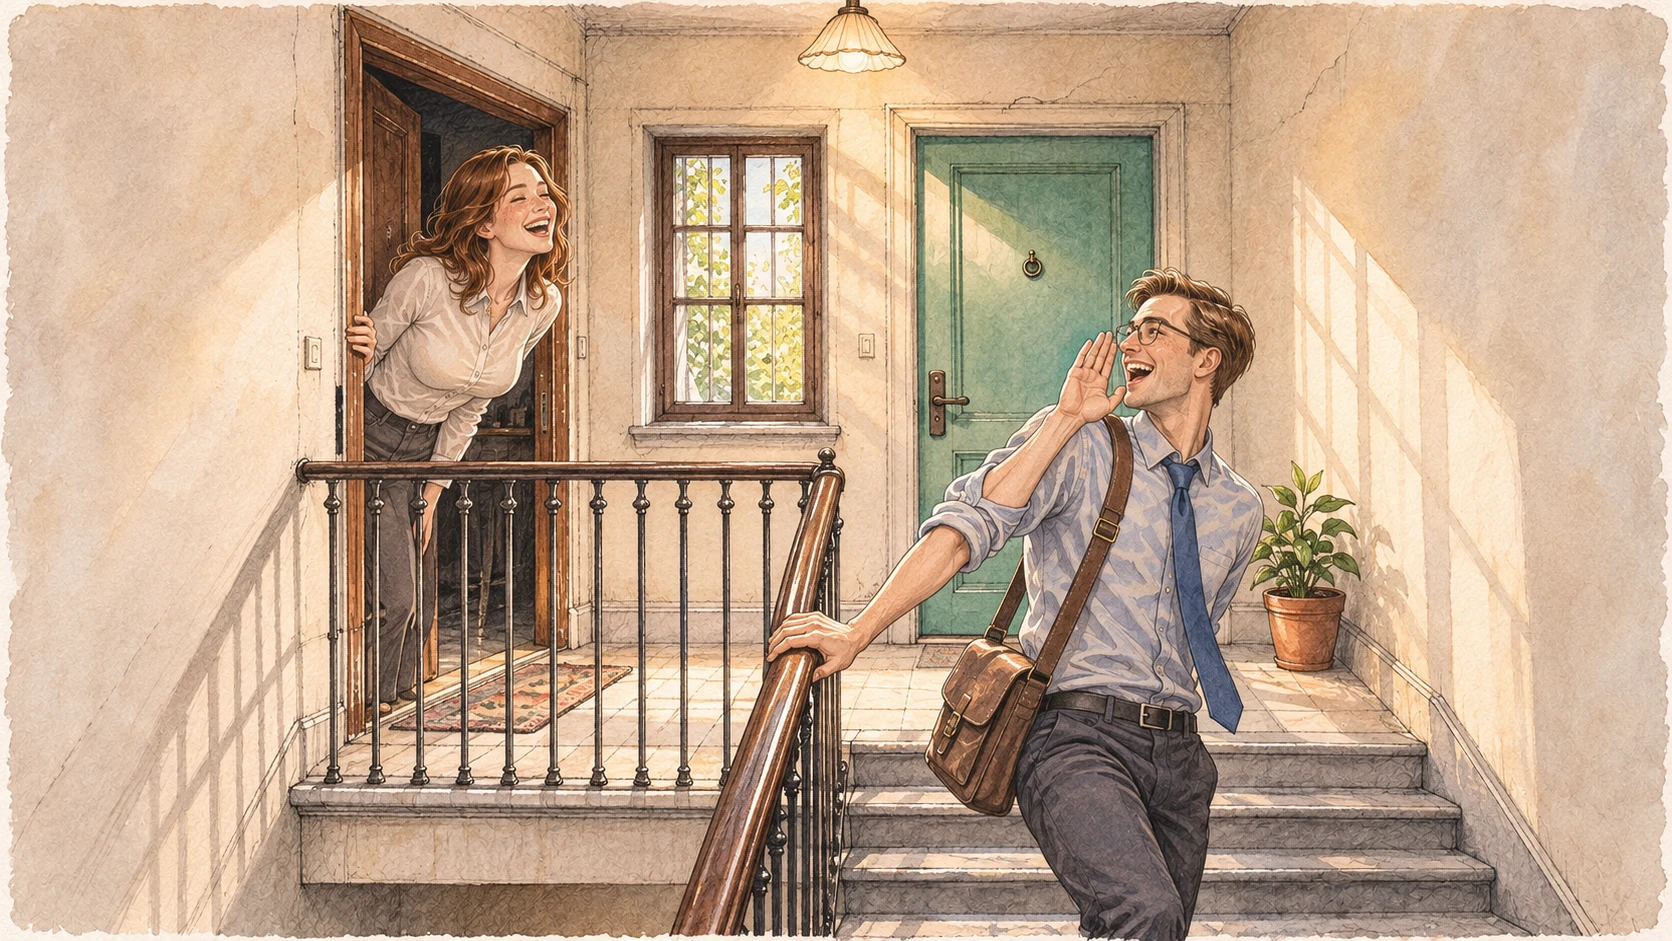
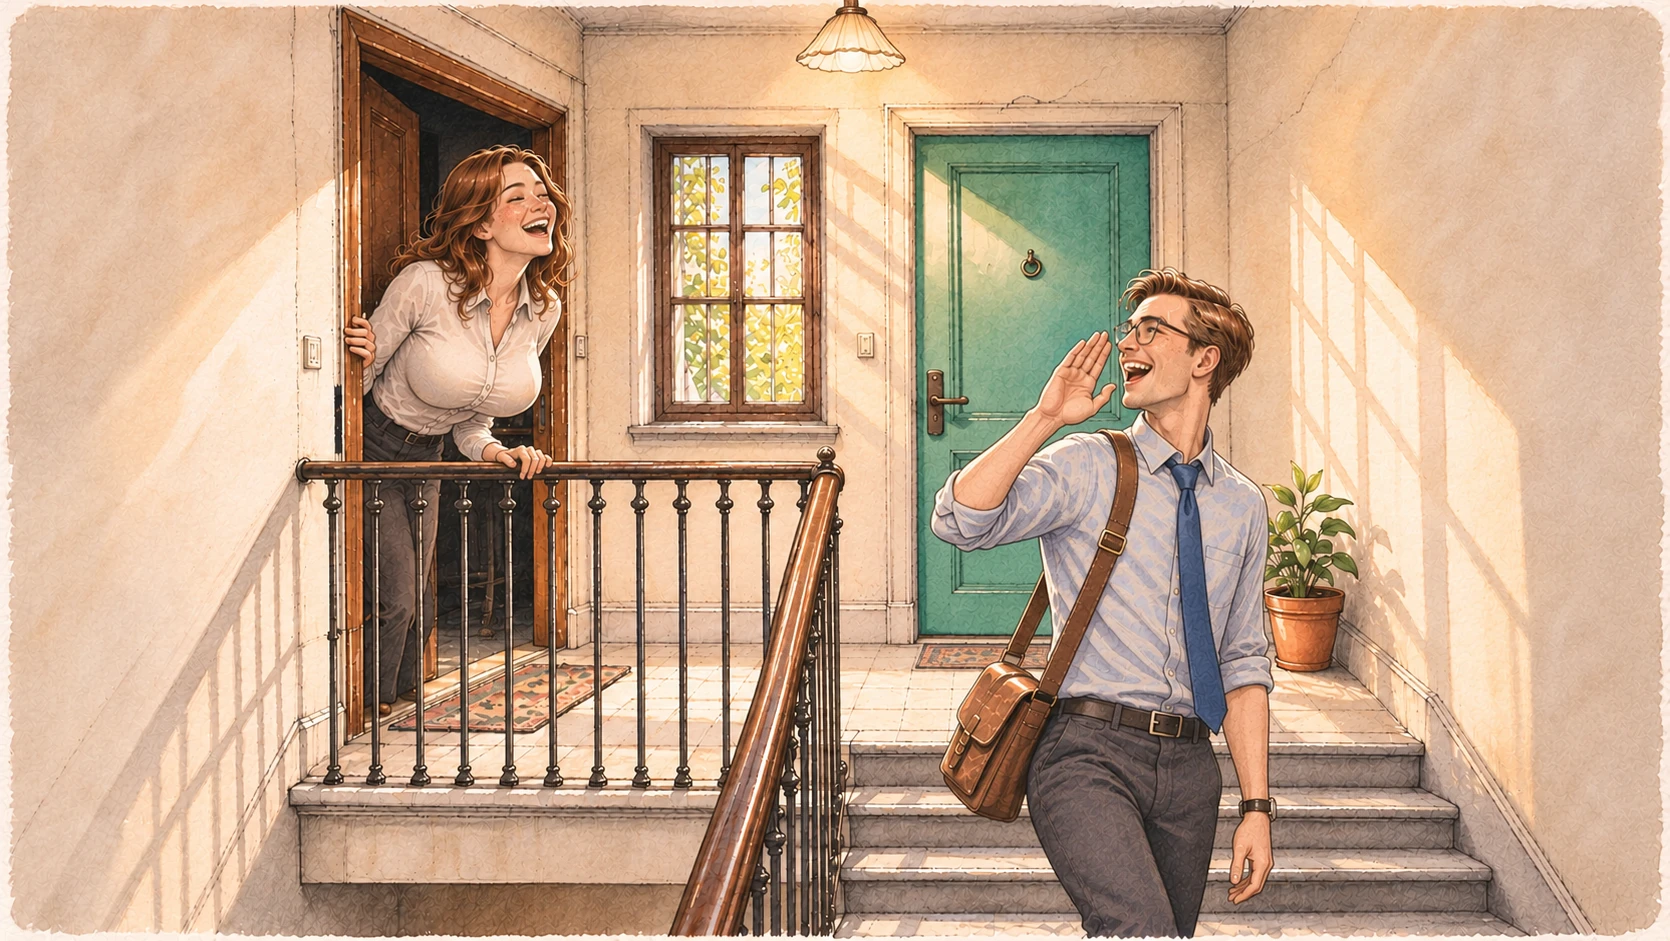
immagini: A5 rifatta con le mani di Josh corrette, giorno 1 completo
Claude-Session: https://claude.ai/code/session_01EsjbokYVegFf5gAcEnqkWb

diff --git a/docs/prompt-immagini/inquadrature-giorno-01.md b/docs/prompt-immagini/inquadrature-giorno-01.md
@@ -4,7 +4,7 @@ Bozza di lavoro | 17 novembre 2026 · Regola: un cambio d'immagine ogni 3-4 batt
 
 **Come si fanno le varianti:** su Mage parti dall'immagine indicata in «Da» (riferimento) e incolla la frase della colonna «Modifica». Tutte in 16:9, stesso stile. ✅ = già fatta.
 
-Totale: **28 immagini diverse**, 27 fatte ✅ e A5 da rifare 🔁 (mani di Josh), circa **38 cambi d'immagine** nel giorno.
+Totale: **28 immagini diverse, tutte fatte ✅** (completato il 17/11/2026), circa **38 cambi d'immagine** nel giorno.
 
 ---
 
@@ -16,7 +16,7 @@ Totale: **28 immagini diverse**, 27 fatte ✅ e A5 da rifare 🔁 (mani di Josh)
 | A2 ✅ | Primo piano allo specchio | A1 | *Close-up of Sara's reflection in the standing mirror, buttoning the plain white blouse, fingers stopped on the top button at the collar, thoughtful.* | «She picks the plain white blouse…» e la scelta del bottone |
 | A3 ✅ | Un bottone aperto (solo scelta B) | A2 | *Same mirror close-up, the top button left open, Sara smiling shyly at her own reflection, cheeks a little pink.* | «One button. That's all. Today I feel… nice.» |
 | A4 ✅ | Il bacio sulla tempia | — | — | «Josh appears in the doorway…» → «Page twenty-six is lucky…» |
-| A5 🔁 | «Love you!» dalle scale | A4 | *Josh halfway down the building stairs, turning back and shouting up with a grin; Sara leans out of the apartment door, laughing.* (allega `pianerottolo`) | «He's already halfway down the stairs…» → fine scena |
+| A5 ✅ | «Love you!» dalle scale | A4 | *Josh halfway down the building stairs, turning back and shouting up with a grin; Sara leans out of the apartment door, laughing.* (allega `pianerottolo`) | «He's already halfway down the stairs…» → fine scena |
 
 ## B. Redazione — Barbara
 
